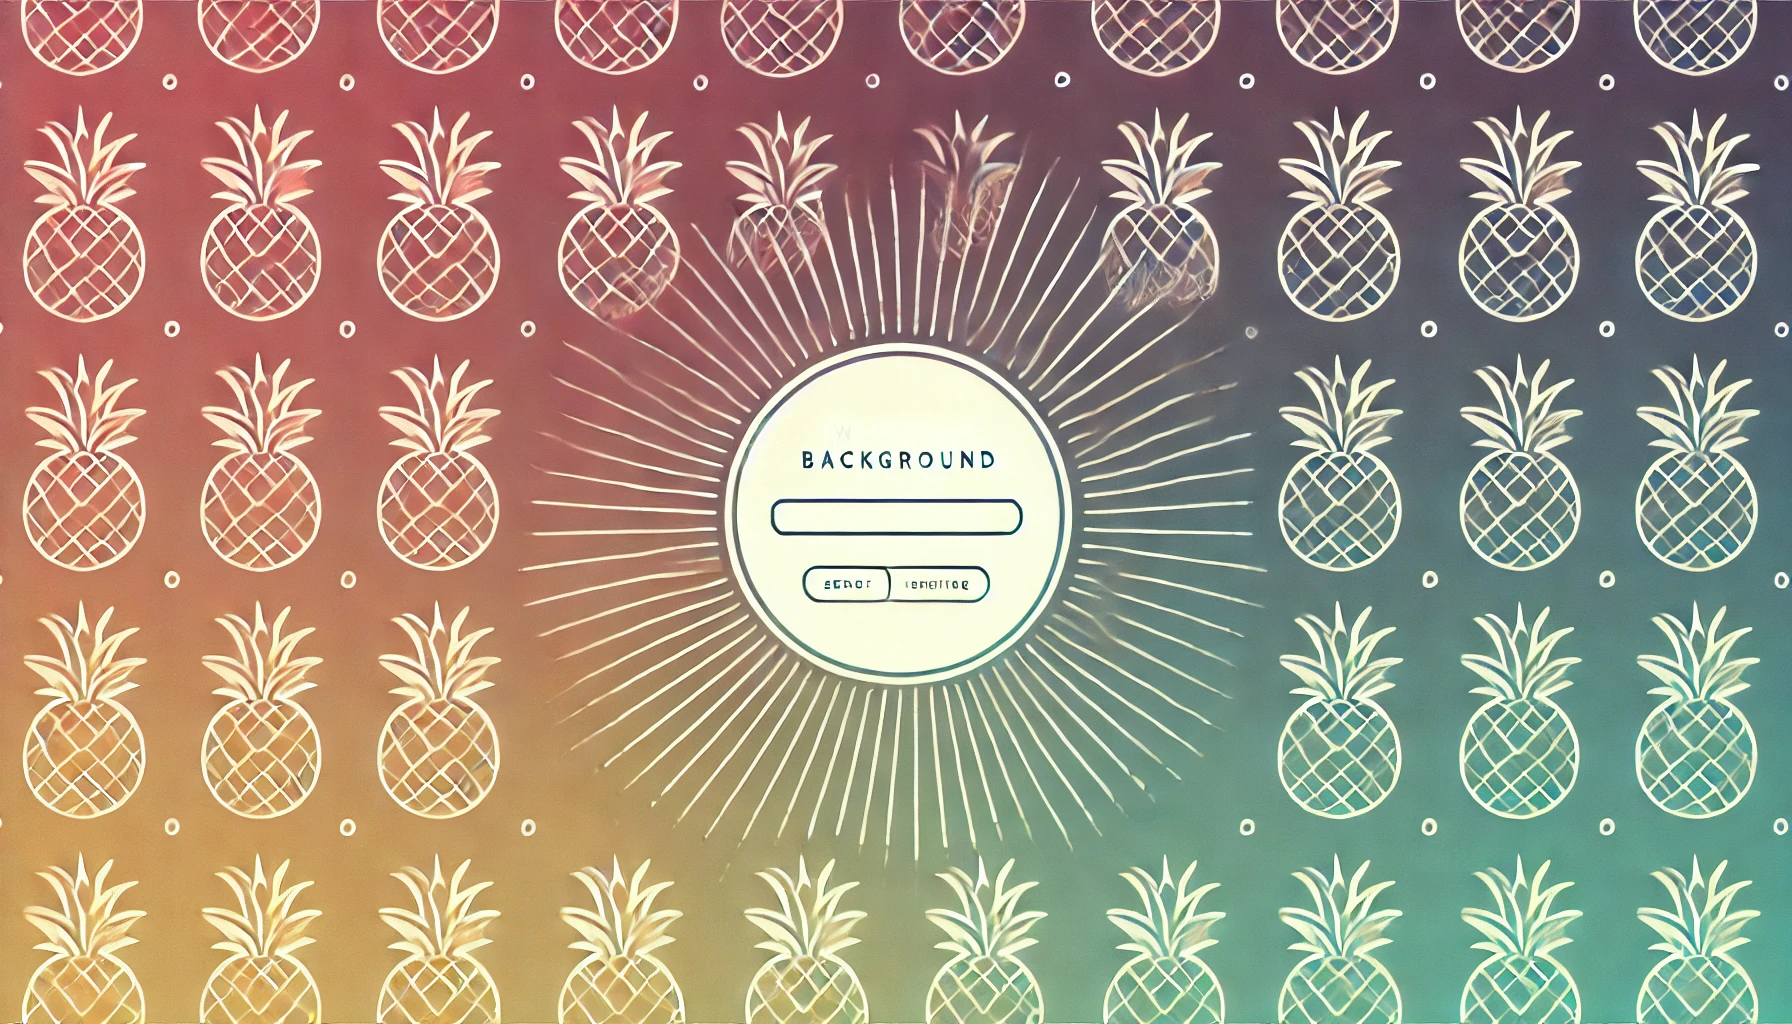
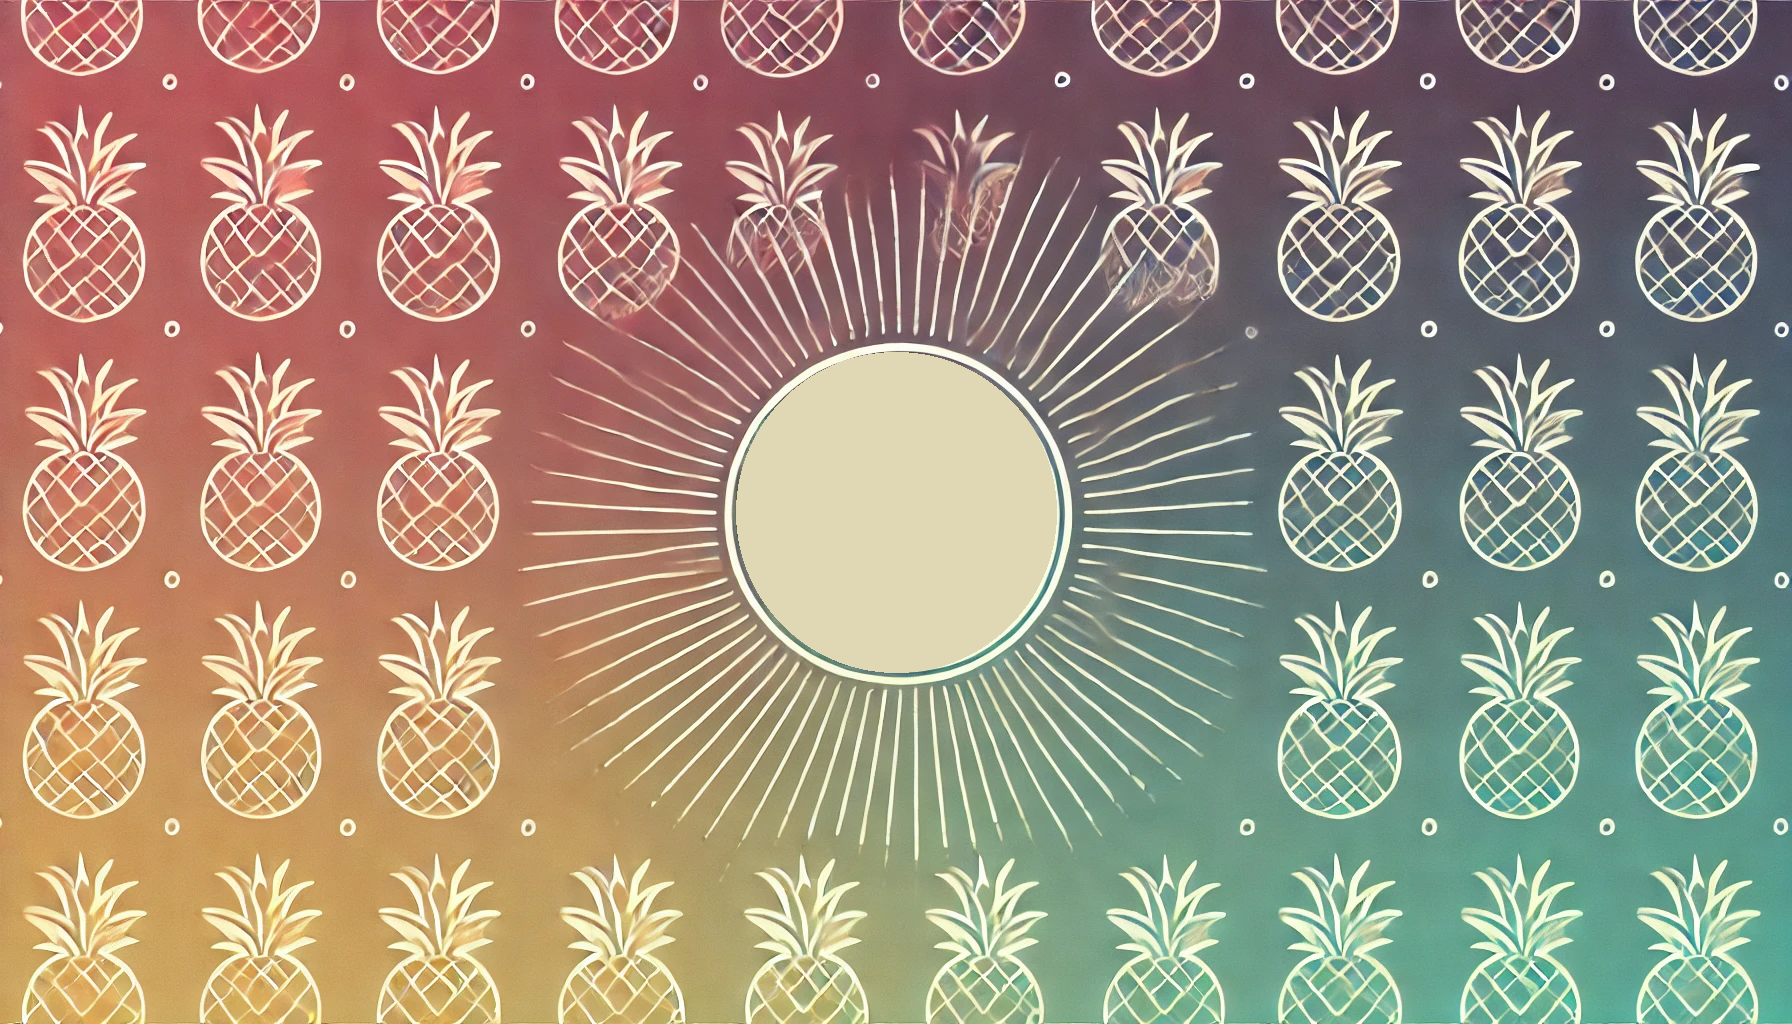
Update landing page

Changed region(s): [[0.4062, 0.3438, 0.5938, 0.6562]]

diff --git a/src/pages/LandingPage.vue b/src/pages/LandingPage.vue
@@ -4,6 +4,12 @@
       <div class="card card-1">
         <img src="/pineapple-paradise-logo.png" alt="Pineapple Paradise Logo" class="logo" />
         <h2>Welcome to Paradise</h2>
+        <p>This website is a demo of a few things:</p>
+        <ul>
+          <li>My poor taste in UI design - gradients everywhere</li>
+          <li>How to use <a href="https://pinia.vuejs.org/" target="_blank">Pinia</a> for managing state in a Vue.js store</li>
+          <li>How you can use <a href="https://docs.sentry.io/platforms/javascript/guides/vue/" target="_blank">Sentry's Vue SDK</a> and Pinia integrations for error monitoring and tracing to get performance insights.</li>
+        </ul>
       </div>
       <div class="row">
         <router-link to="/products" class="card card-2">
@@ -36,6 +42,8 @@ function closeModal() {
 </script>
 
 <style scoped>
+@import url('https://fonts.googleapis.com/css2?family=Papyrus&display=swap');
+
 .landing-page {
   display: flex;
   justify-content: center;
@@ -43,6 +51,7 @@ function closeModal() {
   height: 100vh;
   padding: 1rem;
   box-sizing: border-box;
+  font-family: 'Papyrus', sans-serif; /* Apply Papyrus font */
 }
 
 .flex-container {
@@ -63,6 +72,7 @@ function closeModal() {
 
 .card {
   display: flex;
+  flex-direction: column;
   justify-content: center;
   align-items: center;
   background-color: #f0f0f0;
@@ -79,7 +89,8 @@ function closeModal() {
   transition: background 0.3s ease;
   width: 100%; /* Full width of the container */
   max-width: 600px; /* Adjust as needed */
-  height: 300px; /* Adjust as needed */
+  height: auto; /* Adjust height to fit content */
+  padding: 2rem; /* Add padding for better spacing */
 }
 
 .card-1:hover {
@@ -108,6 +119,11 @@ function closeModal() {
 
 .card-3:hover {
   background: linear-gradient(135deg, #492471, #5e256e, #6f276a, #7e2b66, #8a3261, #943a5d, #9c4459, #a24f56);
+}
+
+ul {
+  list-style-position: inside; /* Align bullet points and text */
+  padding-left: 0; /* Remove default padding */
 }
 
 .icon {
